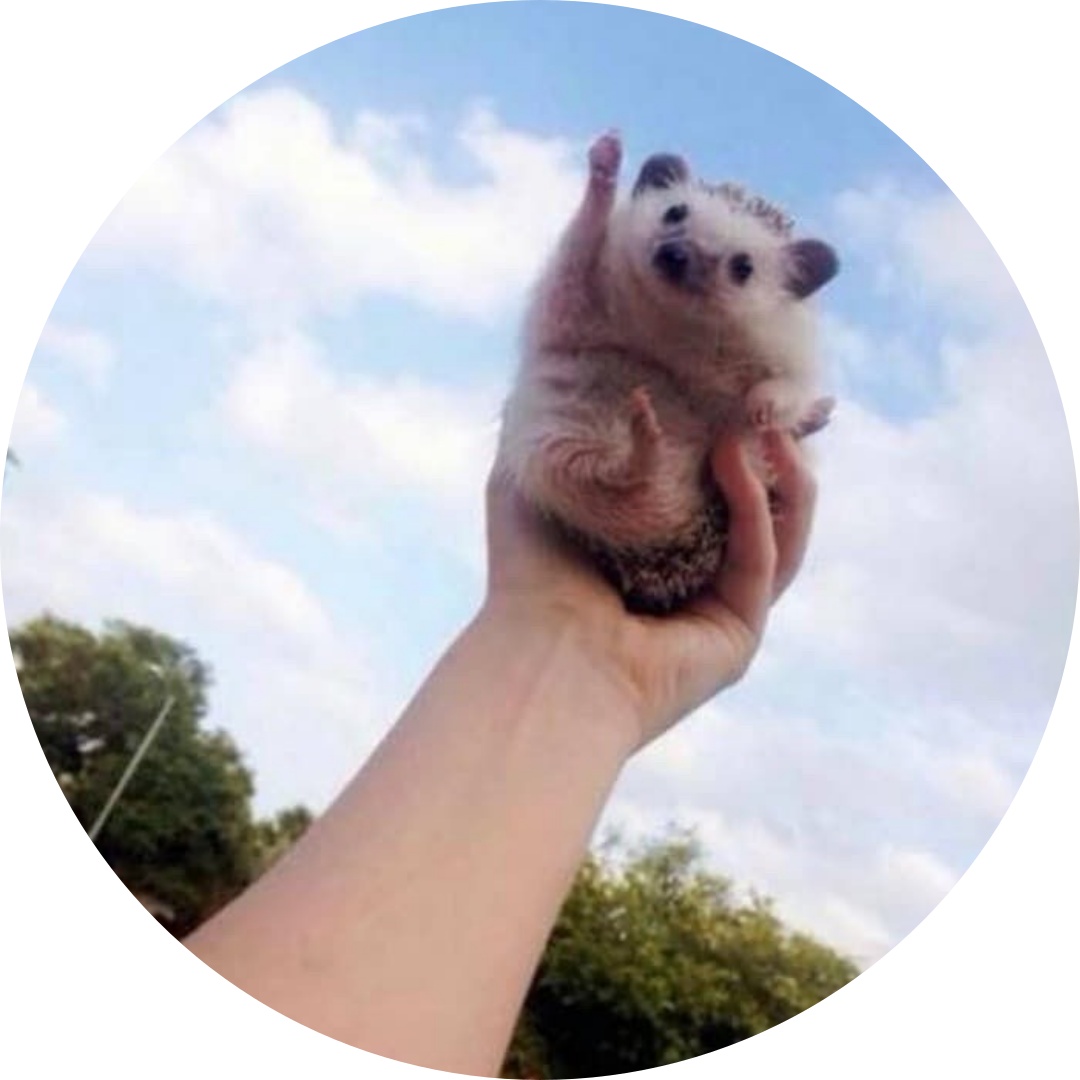
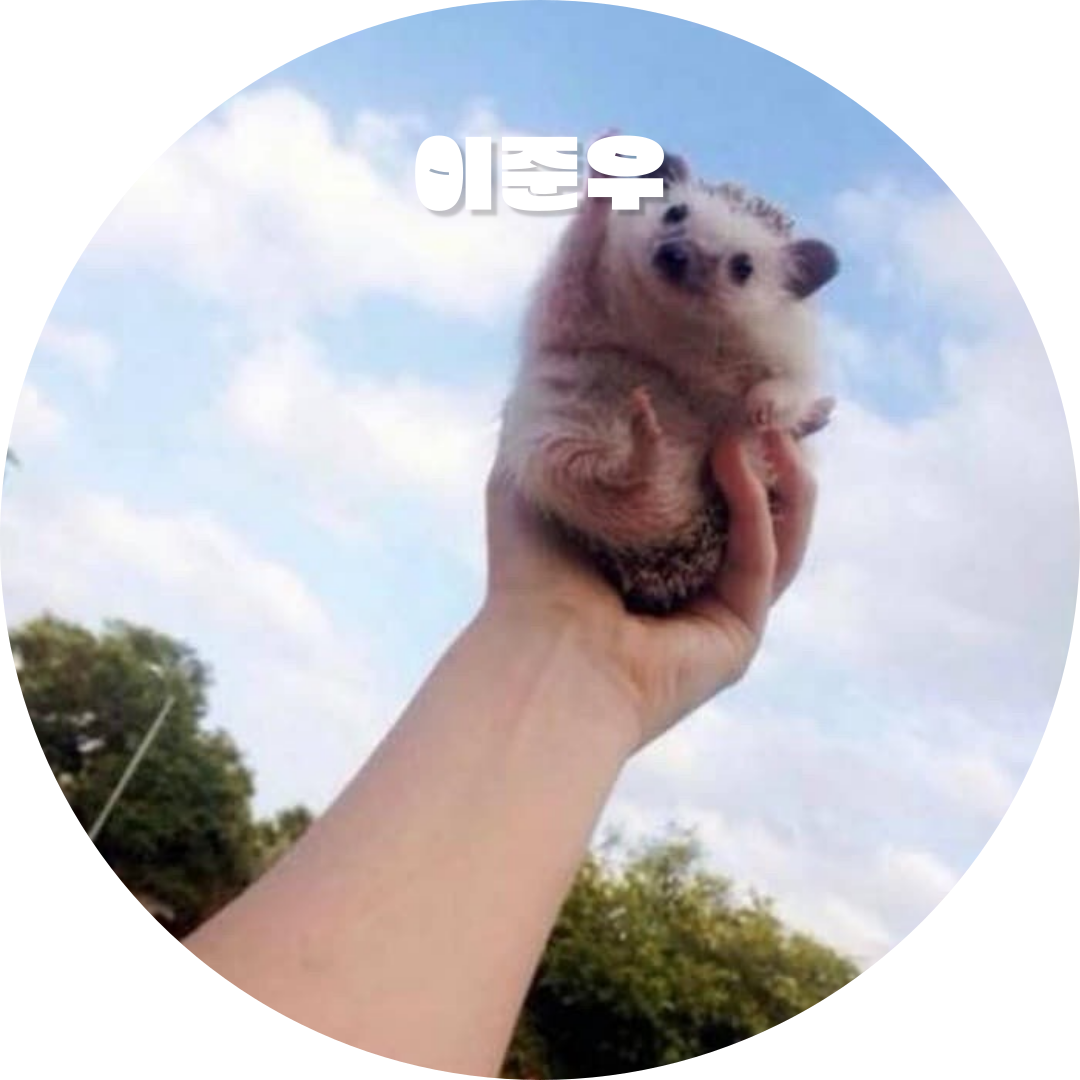
Added Names on the Profile Photo

Changed region(s): [[0.3667, 0.1222, 0.6111, 0.2139]]

diff --git a/index.html b/index.html
@@ -11,24 +11,6 @@
     <title>소융가르디움 웹비오우사</title>
 
     <style>
-        #first-screen-container {
-            display: grid;
-            grid-template-columns: 1fr 1fr 1fr;
-            grid-template-rows: 1fr 1fr 1fr;
-        }
-        body{
-            font-family: 'Pretendard-Regular', sans-serif;
-        }
-        h1{
-            font-family: 'Pretendard-Bold', sans-serif;
-        }
-        .usepcp{
-            font-family: 'PCP-Bold', sans-serif;
-        }
-        .content{
-            width: 100%; height: 100%;
-            position: relative;
-        }
         html{
             overflow: hidden; padding: 0%;
         }
